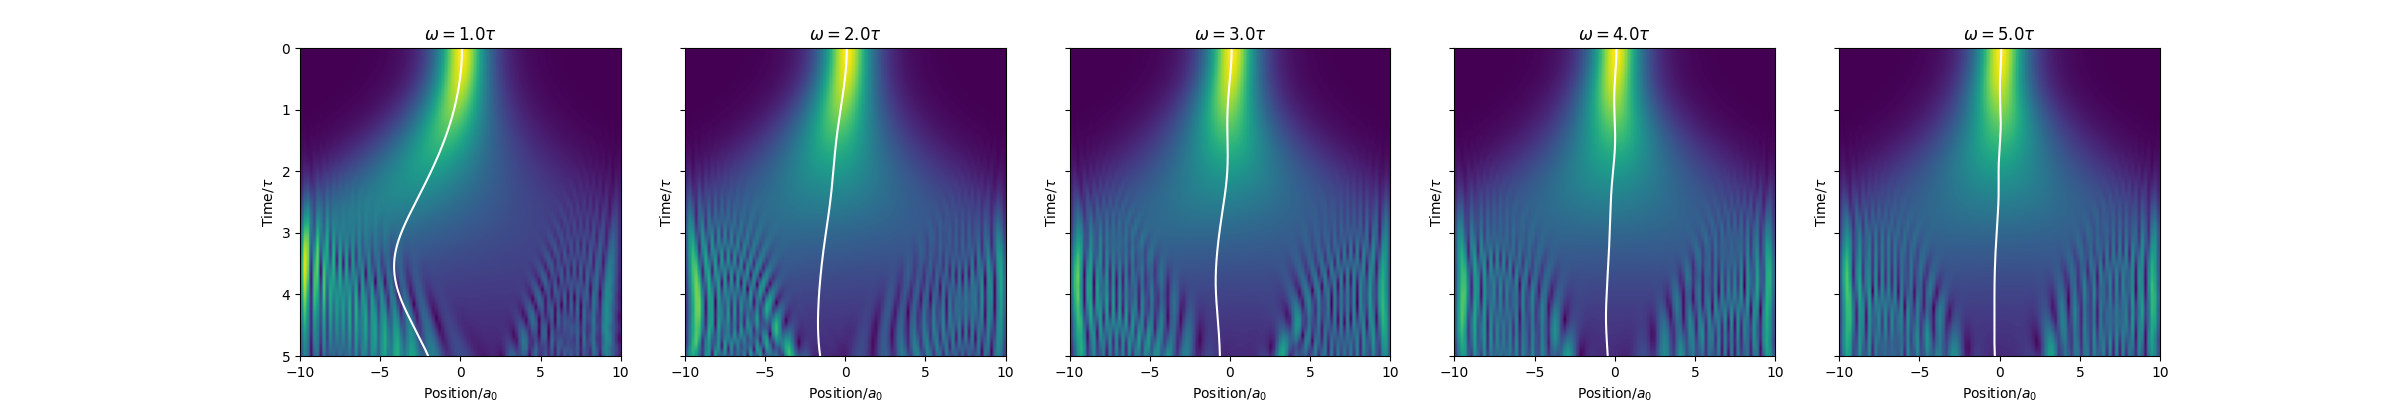
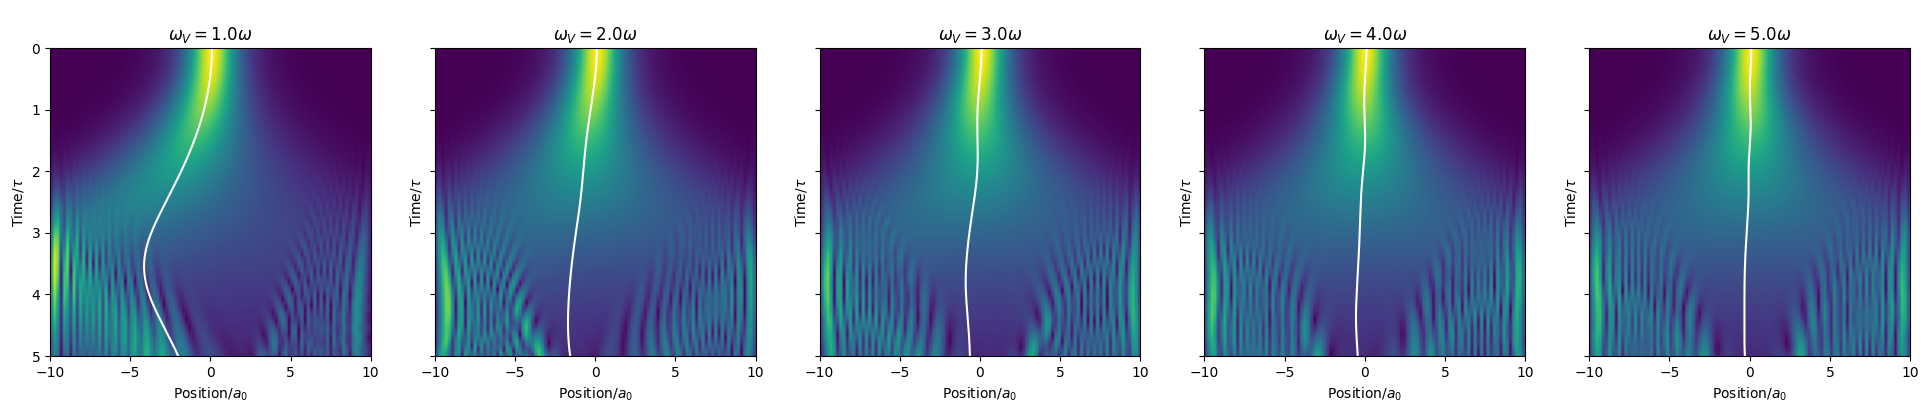
Replot dependencies on freq and amp

diff --git a/projects/simulations/kapitza/freqDependency/plotFullDep.py b/projects/simulations/kapitza/freqDependency/plotFullDep.py
@@ -51,6 +51,6 @@ for freq, idx in zip(freqs, idxs):
     # tTicksLabels = [f"{t:.2f}" for t in tTicks]
     # plt.yticks(J[:: int(len(J) / 10)], tTicksLabels)
 
-    ax[idx].set_title("$\\omega = $" + str(freq) + "$\\tau$")
+    ax[idx].set_title("$\\omega_V = $" + str(freq) + "$\\omega$")
 
 plt.savefig(os.path.join(os.path.dirname(__file__), "FrequencyDependency.png"))
